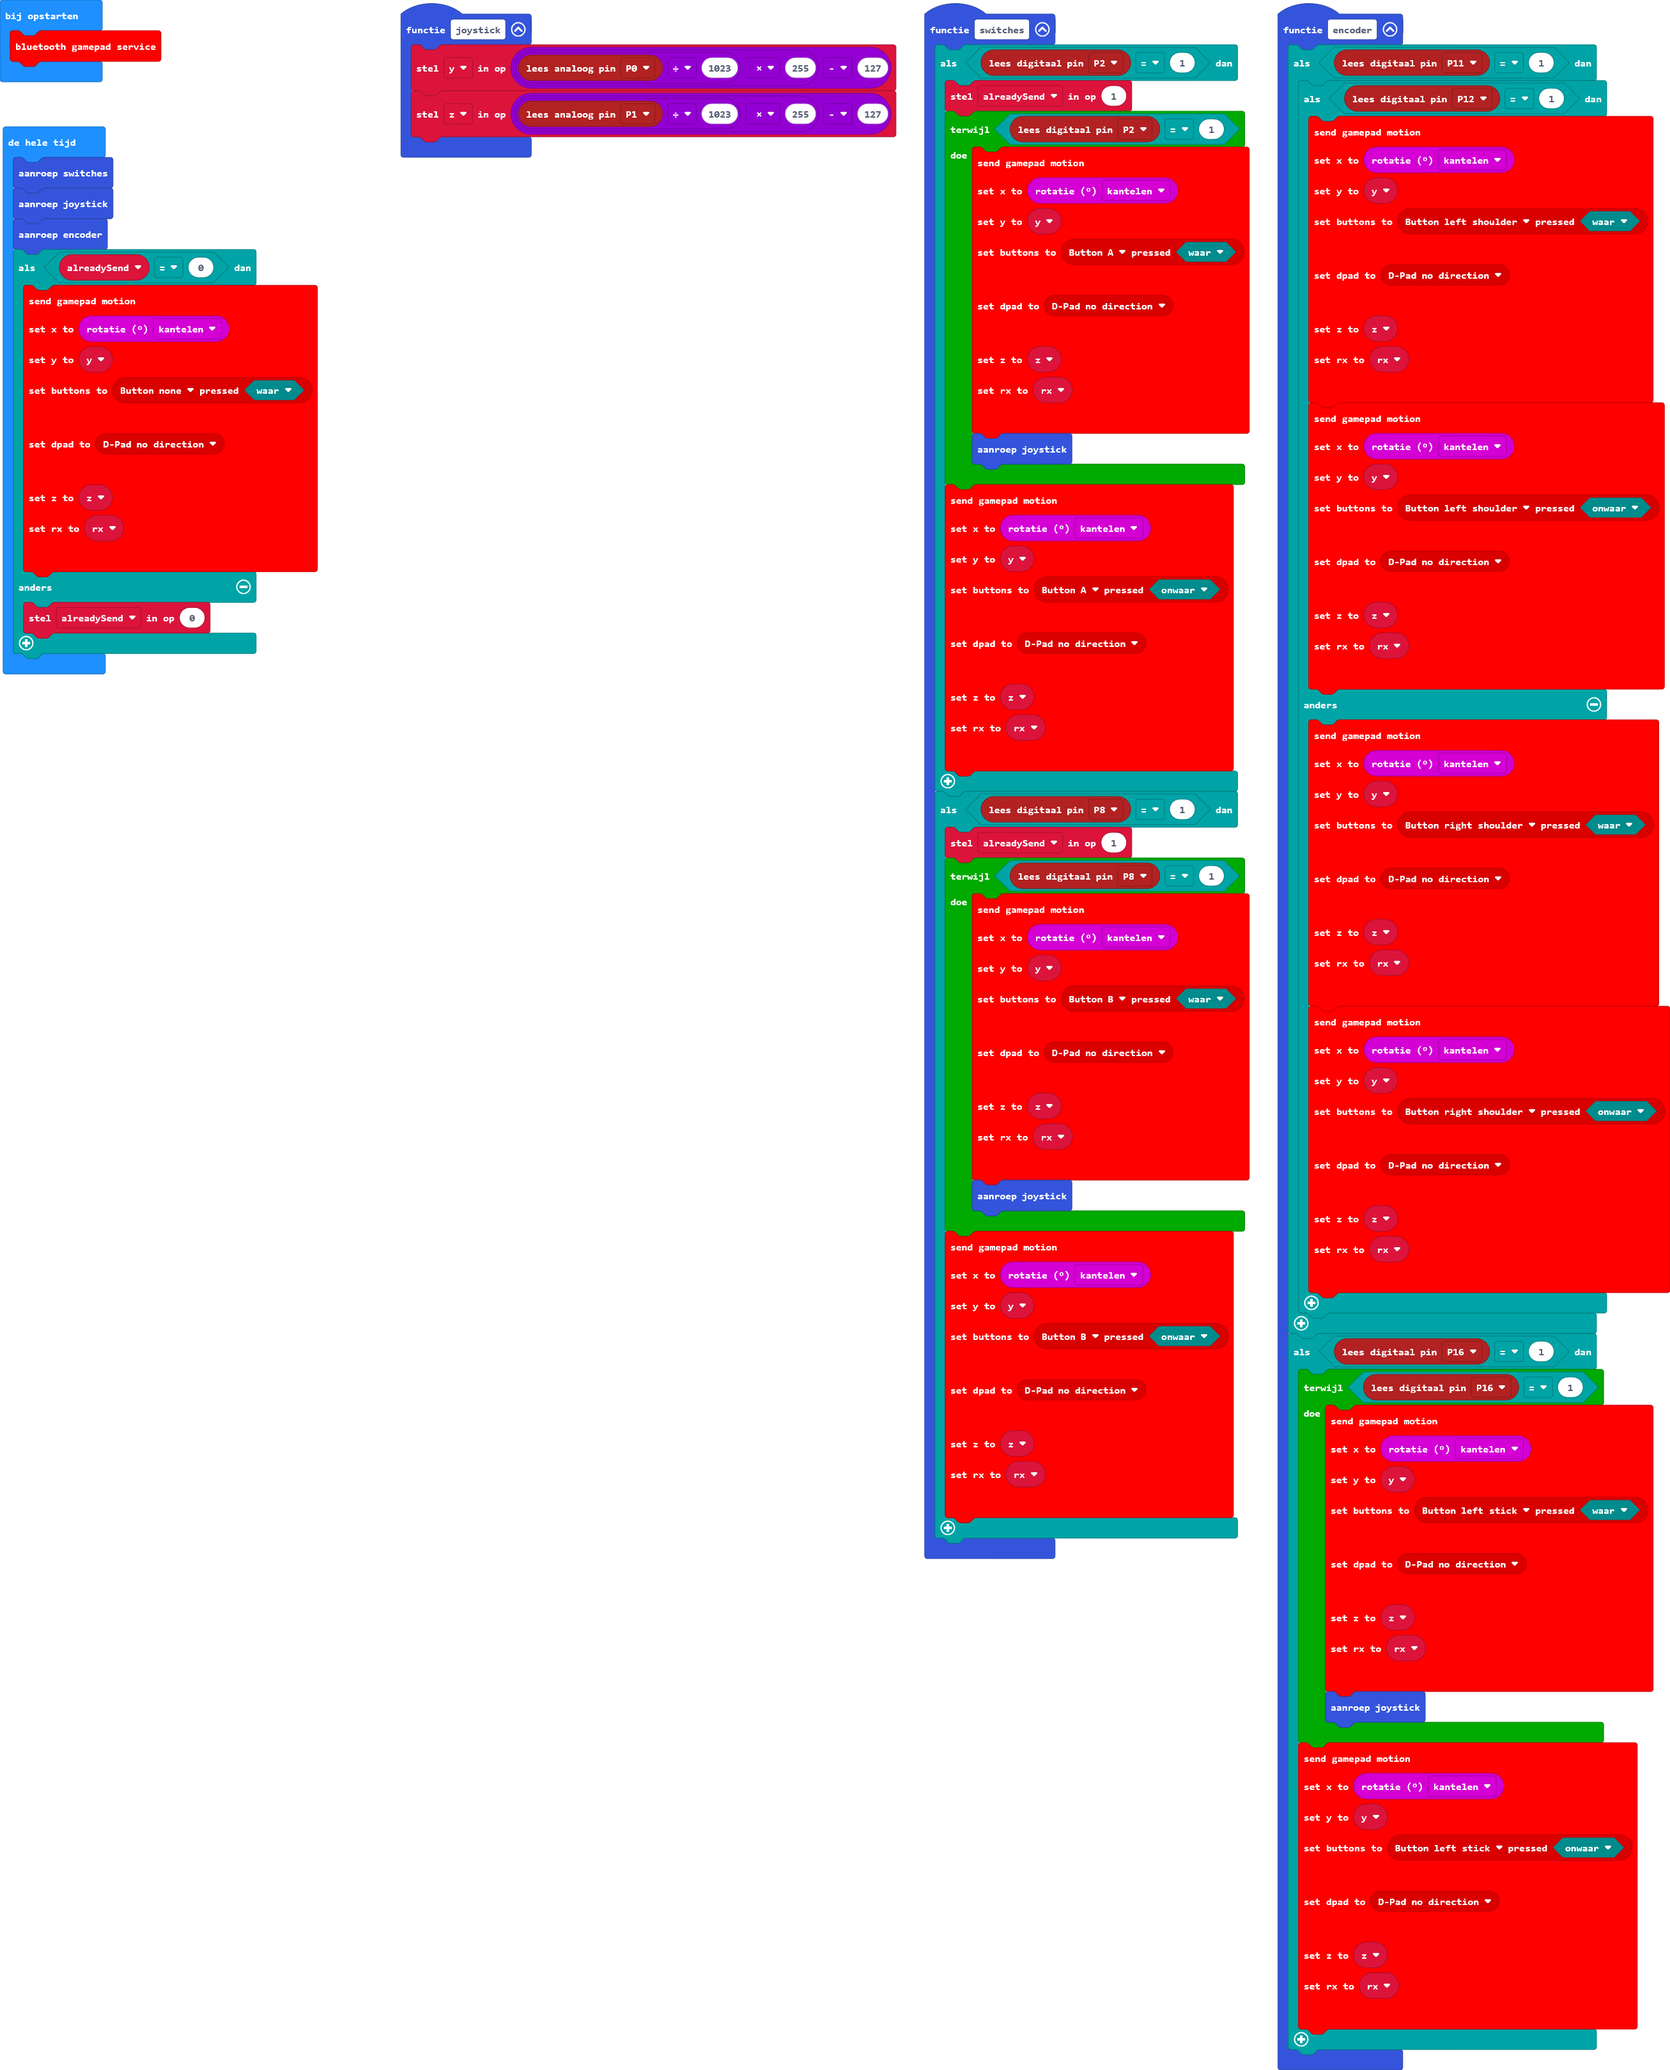
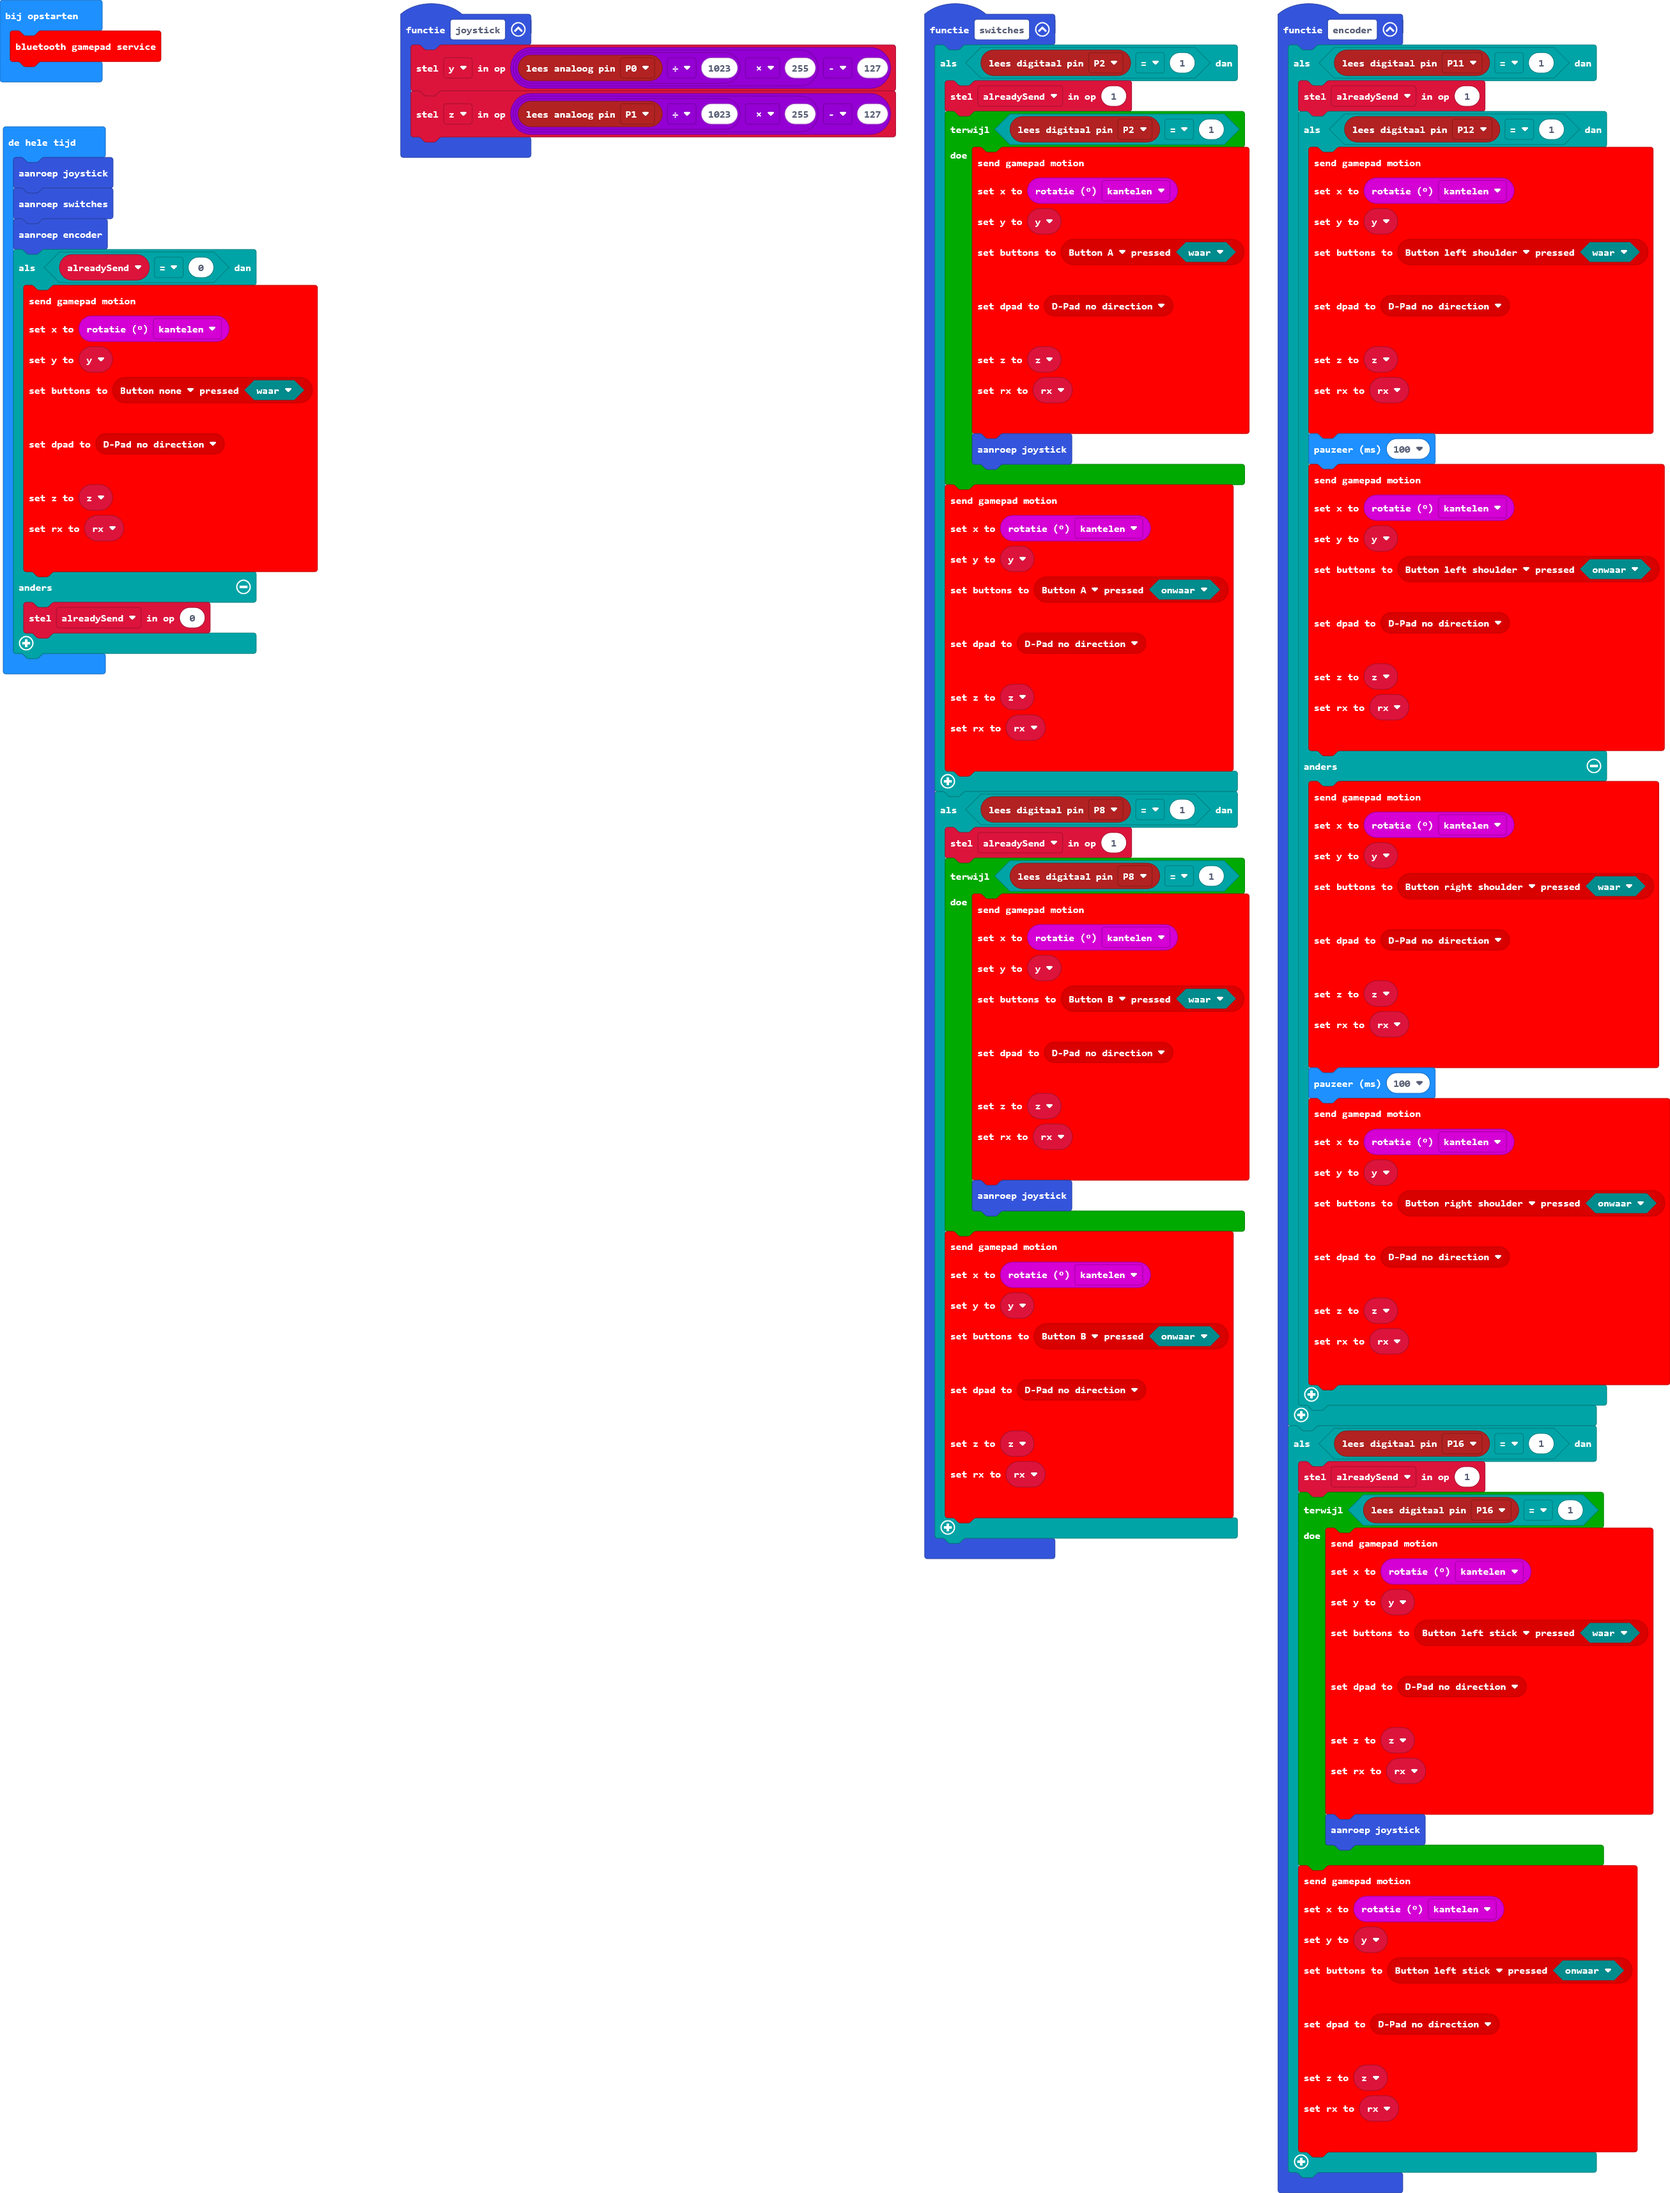
main.blocks, main.ts bijwerken

Changed region(s): [[0.775, 0.0, 1.0, 0.9981], [0.248, 0.0, 0.775, 0.7798], [0.0, 0.0, 0.186, 0.3431]]

diff --git a/main.ts b/main.ts
@@ -50,6 +50,7 @@ function switches () {
 }
 function encoder () {
     if (pins.digitalReadPin(DigitalPin.P11) == 1) {
+        alreadySend = 1
         if (pins.digitalReadPin(DigitalPin.P12) == 1) {
             gamepad.send(
             gamepad._buttons(GameButton.leftShoulder, true),
@@ -59,6 +60,7 @@ function encoder () {
             z,
             rx
             )
+            basic.pause(100)
             gamepad.send(
             gamepad._buttons(GameButton.leftShoulder, false),
             input.rotation(Rotation.Pitch),
@@ -76,6 +78,7 @@ function encoder () {
             z,
             rx
             )
+            basic.pause(100)
             gamepad.send(
             gamepad._buttons(GameButton.rightShoulder, false),
             input.rotation(Rotation.Pitch),
@@ -87,6 +90,7 @@ function encoder () {
         }
     }
     if (pins.digitalReadPin(DigitalPin.P16) == 1) {
+        alreadySend = 1
         while (pins.digitalReadPin(DigitalPin.P16) == 1) {
             gamepad.send(
             gamepad._buttons(GameButton.leftStick, true),
@@ -114,8 +118,8 @@ let z = 0
 let y = 0
 gamepad.startGamepadService()
 basic.forever(function () {
-    switches()
     joystick()
+    switches()
     encoder()
     if (alreadySend == 0) {
         gamepad.send(
